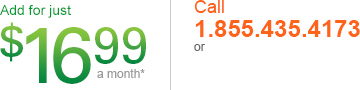
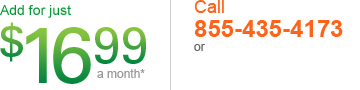
updating hob content

diff --git a/prism/existing/index.html b/prism/existing/index.html
@@ -810,9 +810,9 @@
 					<div class="price sixteen99-tfn">Add for just $16.99 a month* Call 855-435-4173 to order.</div>
 					<a href="#ZAM" class="modal-trigger close-color-box" id="prism-hbo-trigger" clicktrack="ctl|rsd|shop|iptv_retention|pre_id_learn|hbo|button|chat">Chat to Order</a>
 					<p class="blurb">HBO<sup class="special-sup">&reg;</sup> gives you hit original series, Hollywood blockbusters, sports and so much more. Watch the most talked about HBO shows whenever you want with HBO On Demand<sup class="special-sup">&reg;</sup>. Plus, with HBO GO<sup class="special-sup">&reg;</sup>, get instant access to every episode of every season of the best HBO<sup class="special-sup">&reg;</sup> shows. So go ahead, make your own schedule. And be sure to catch hit films like <em>The Wolverine</em> and <em>The Conjuring</em>, and the new HBO<sup class="special-sup">&reg;</sup> original series <em>The Leftovers</em>.</p>
-					<p class="disclaimer-left">**Subscription to HD service required to view HD programming.<br>HD availability varies by area.</p>
+					<p class="disclaimer-left">* FREE with an HBO<sup class="special-sup">&reg;</sup> subscription from CenturyLink.<br><br>** All 14 channels available in HD. Subscription to HD service required to view HD programming. HD availability varies by area.</p>
 				</div>
-				<p class="disclaimer floatingDisclaimer">HBO<sup class="special-sup">&reg;</sup>, CINEMAX<sup class="special-sup">&reg;</sup> and related channels and service<br>marks are the property of Home Box Office, Inc.<br><em>Game of Thrones</em> &copy;2014 Home Box Office, Inc. All Rights Reserved.</p>
+				<p class="disclaimer floatingDisclaimer">HBO<sup class="special-sup">&reg;</sup>, Cinemax<sup class="special-sup">&reg;</sup> and related channels and service<br>marks are the property of Home Box Office, Inc.<br>True Blood<sup class="special-sup">&reg;</sup> &copy; 2014 Home Box Office, Inc. All Rights Reserved.</p>
 			</div>
 
 			<div class="child cinemax">
